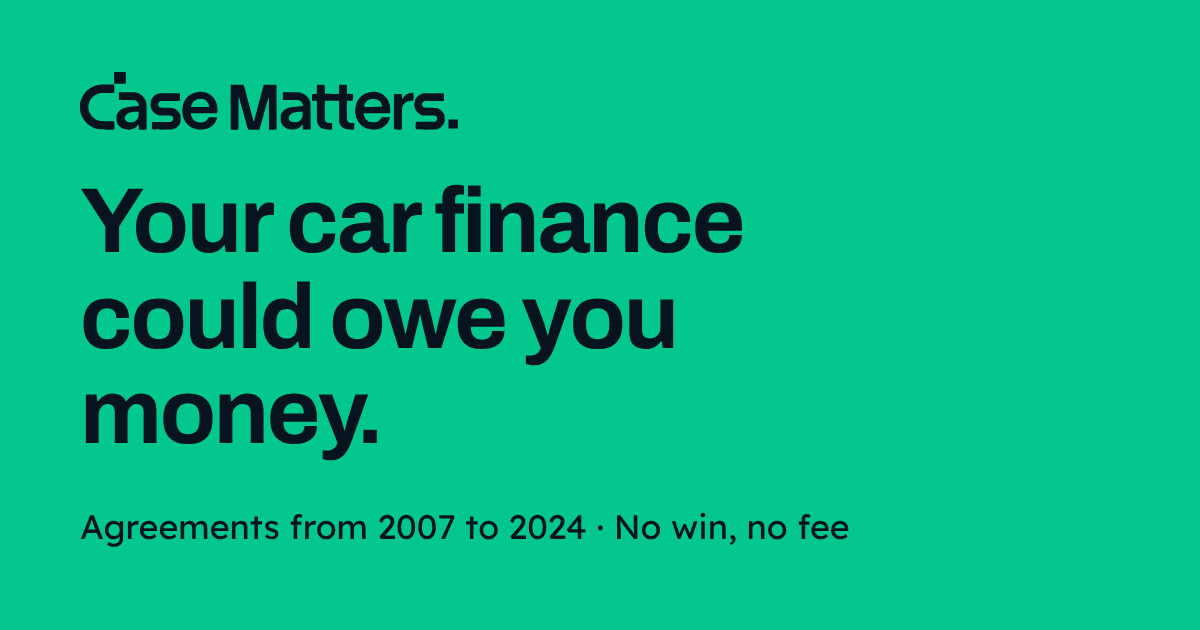
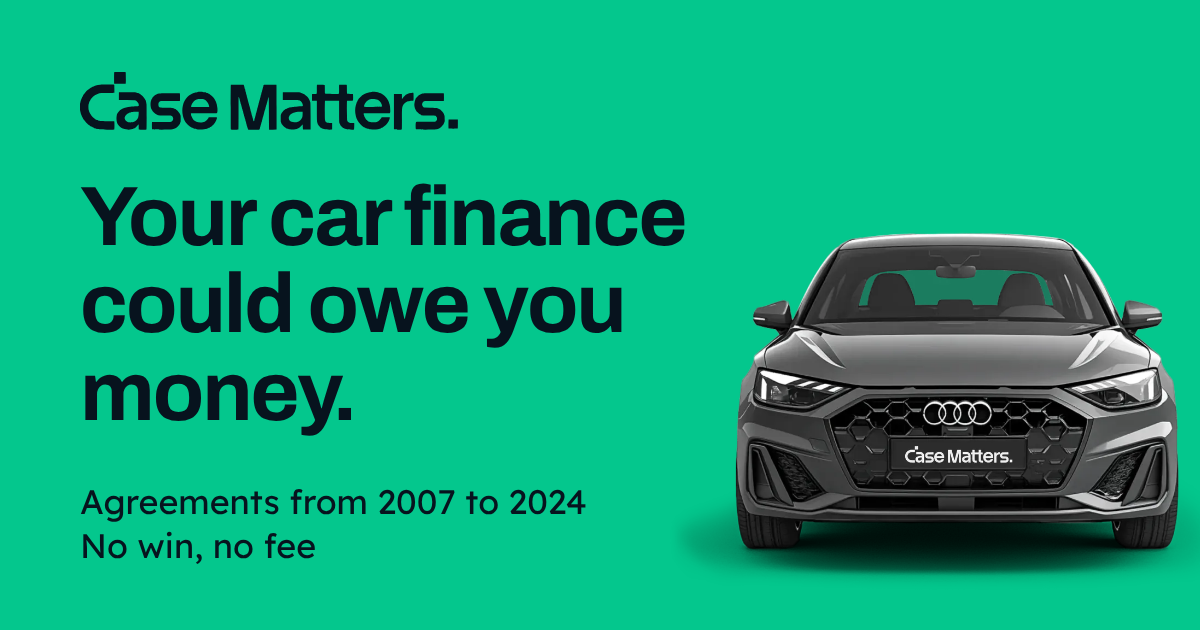
Case Matters: the car with a Case Matters plate, and its C as the hero watermark
Claude-Session: https://claude.ai/code/session_01DeZoUQ6vAJtmVfQPcKWA59

Changed region(s): [[0.0617, 0.3619, 1.0, 0.9349], [0.0617, 0.2714, 0.6167, 0.7238]]

diff --git a/src/styles/global.css b/src/styles/global.css
@@ -387,3 +387,7 @@ body.has-mbar .ftr-in { padding-bottom: calc(100px + env(safe-area-inset-bottom,
   .know > div { padding: 26px; }
 }
 .ftr-legal a { text-decoration: underline; font-size: inherit; }
+/* Case Matters "C" watermark: filled, so lighter than the stroked chevron */
+svg.mark-fill { color: #2BD4A1; opacity: .55; }
+.top-mark.mark-fill { right: -160px; top: 60px; }
+@media (min-width: 1024px) { .top-mark.mark-fill { width: 760px; height: 760px; right: -120px; top: -60px; } }

diff --git a/src/brands/index.ts b/src/brands/index.ts
@@ -55,7 +55,8 @@ export const BRANDS: Record<Brand['id'], Brand> = {
     alternateNames: ['CaseMatters', 'casematters.co.uk'],
     // Wordmark traced from the logo Jack sent on 2 Nov 2026.
     logo: 'svg',
-    heroImage: null,
+    // The same car with a Case Matters plate (Jack, 2 Nov 2026).
+    heroImage: { file: 'hero-car', widths: [560, 1024], width: 1024, height: 655, alt: 'Grey hatchback with a Case Matters number plate' },
   },
 };
 

diff --git a/CLAUDE.md b/CLAUDE.md
@@ -3,7 +3,7 @@
 Handover and open items: `claude/checkfinance-rebuild-research.md` in the Claim Simple / CMC project.
 
 ## Two brands, one codebase
-Brand differences live only in `src/brands/index.ts` and `brand-assets/<brand>/` (logo, favicon, social image, and the Check Finance car shown in the home hero; the car carries a Check Finance plate, so it never goes on Case Matters). Never hard-code "Check Finance" or "Case Matters" in a page: use `SITE.name` / `BRAND`. `scripts/check-site.mjs` fails the build if one brand's name appears in the other's pages.
+Brand differences live only in `src/brands/index.ts` and `brand-assets/<brand>/` (logo, favicon, social image, and the home hero car, whose number plate carries each brand's own logo). Never hard-code "Check Finance" or "Case Matters" in a page: use `SITE.name` / `BRAND`. `scripts/check-site.mjs` fails the build if one brand's name appears in the other's pages.
 
 ## Compliance rule (Jack)
 Commercial first, compliant to the letter. Exactly what the rules require (CMCOB, consumer law, PECR/UK GDPR), nothing beyond it. Hero cards stay light: heading, one line, button.
